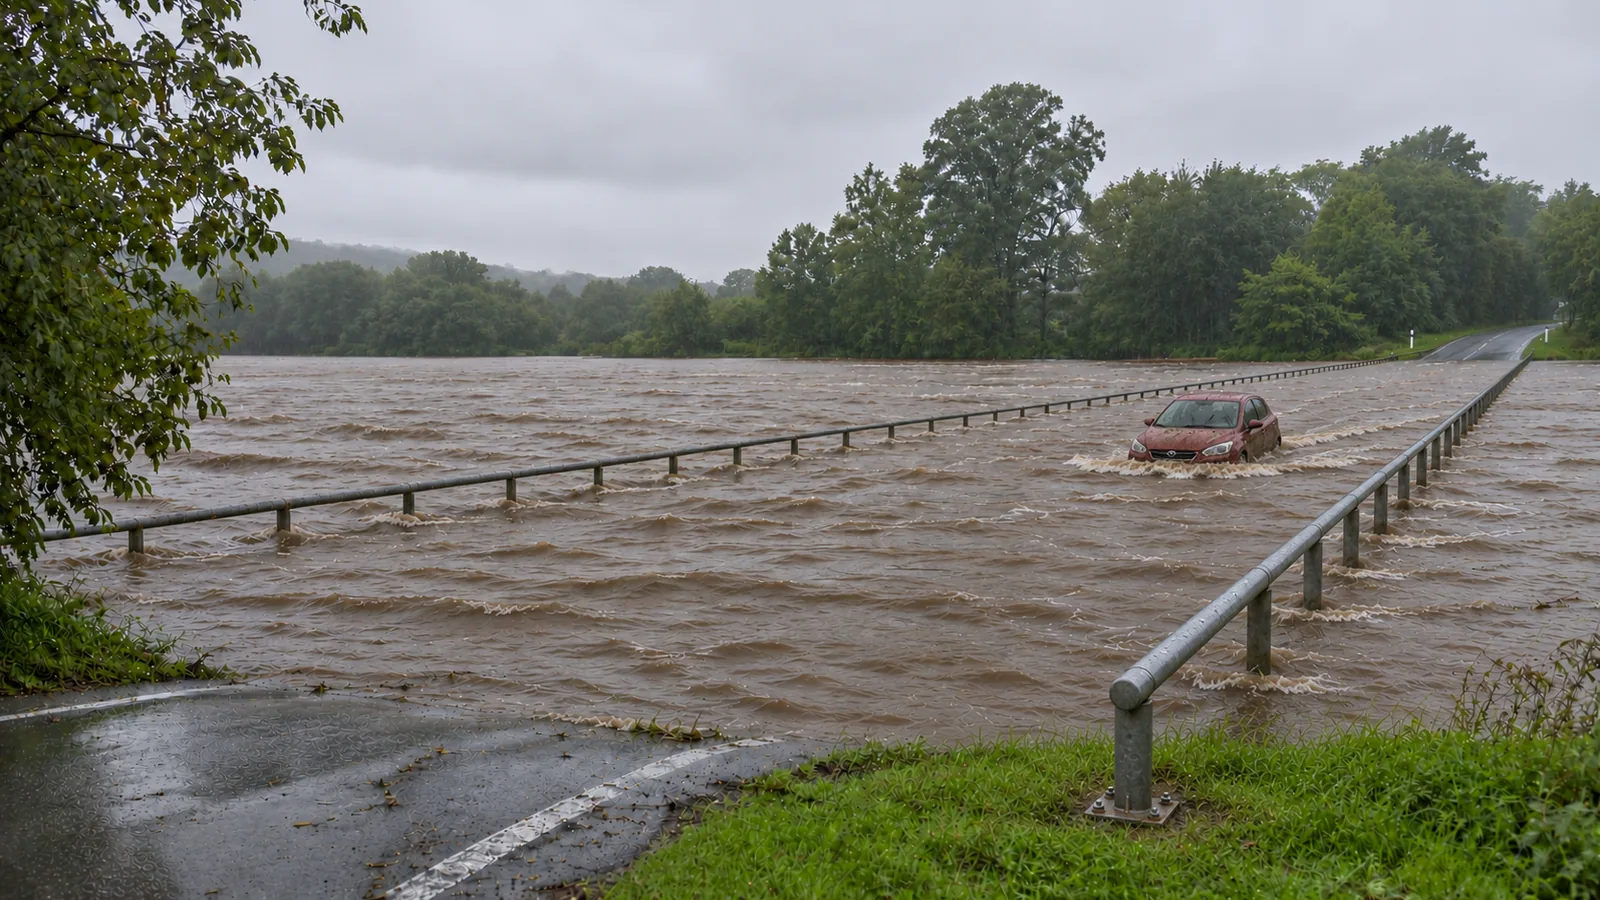
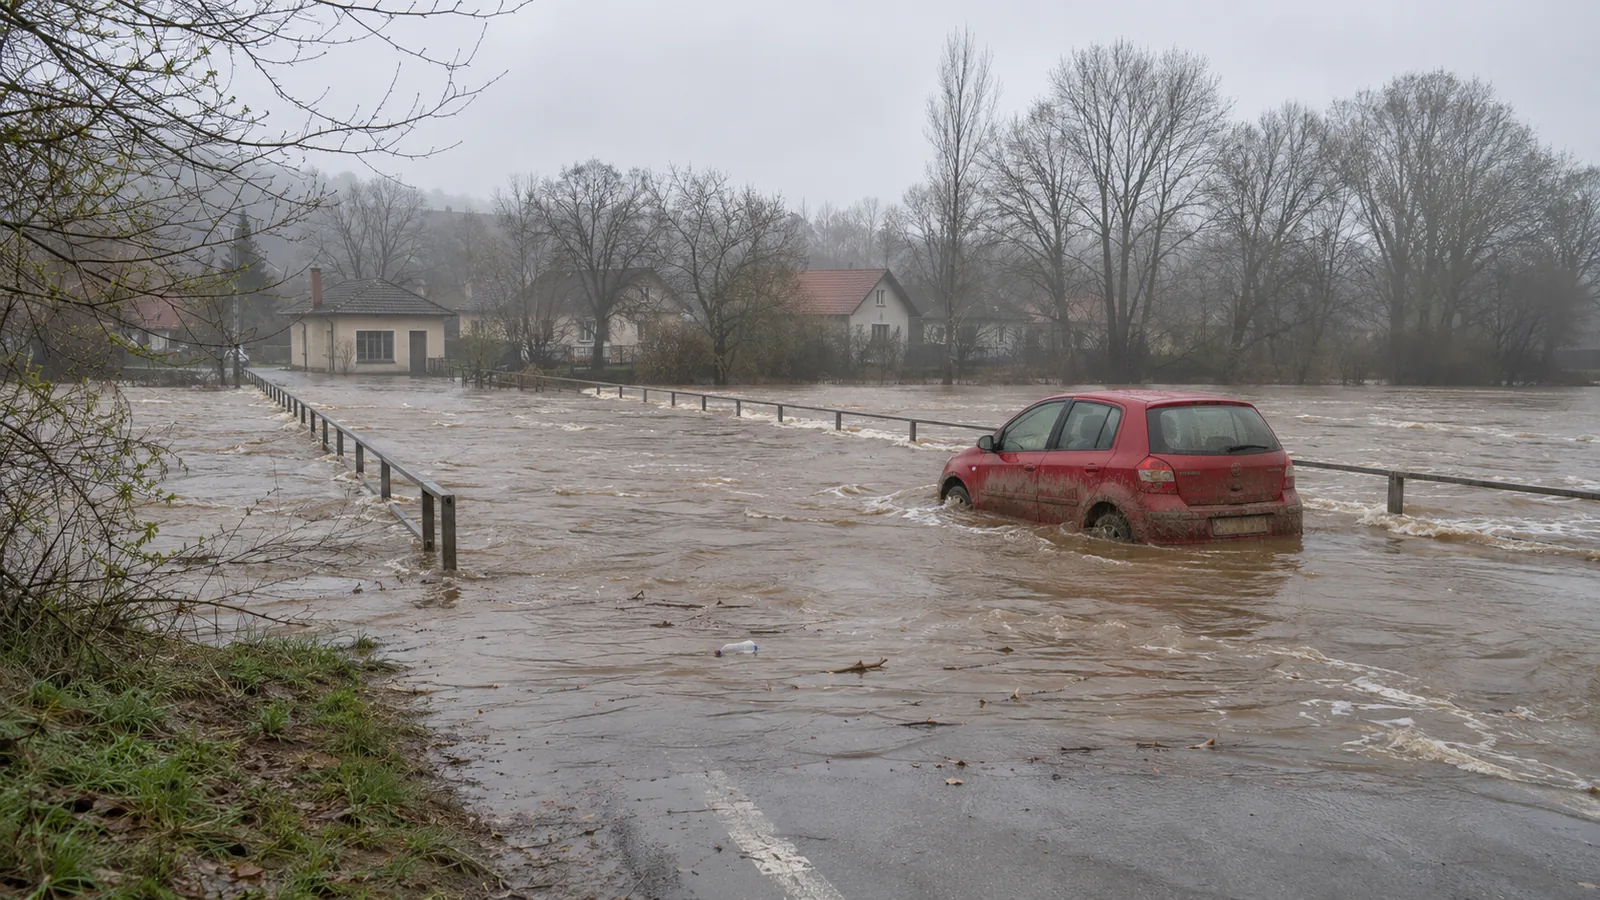
added more pictures

diff --git a/apps/artisan/components/artefacts/scenes.tsx b/apps/artisan/components/artefacts/scenes.tsx
@@ -1,113 +1,36 @@
-import type { ReactNode } from "react";
 import Image, { type StaticImageData } from "next/image";
 import type { SceneId } from "@/content/types";
+import childrenReadingMeadow from "@/assets/scenes/children-reading-meadow-ai-illustration.webp";
+import commonsReadingParty from "@/assets/scenes/commons-summer-reading-party.webp";
 import crowdedLibrary from "@/assets/scenes/crowded-library-stock-photo.webp";
 import handDrawnHeart from "@/assets/scenes/hand-drawn-heart-ai-illustration.webp";
+import historicLibrary from "@/assets/scenes/historic-library-reading-room.webp";
 import riversideBridgeFlood from "@/assets/scenes/riverside-bridge-flood.webp";
 import thankYouCard from "@/assets/scenes/thank-you-card-stock-photo.webp";
 import volunteersParty from "@/assets/scenes/volunteers-thank-you-party.webp";
 
 /*
- * The photos and images in a case. Some are stand-in images made with AI for the course; the rest are drawings
- * that keep their own fixed "print" palette in both themes, because a photo looks the same whatever the page
- * around it does. Neither is ever presented as a real photo: each is labelled as a drawing or as a stand-in made
- * with AI wherever it appears (PRD §4, simplifications visible). What an image is in the story (a stock photo,
- * an AI illustration) is said by its caption or option label, not by this label.
+ * The photos and images in a case: stand-in images made with AI for the course. None is ever presented as a
+ * real photo: each is labelled as a stand-in made with AI wherever it appears (PRD §4, simplifications
+ * visible). What an image is in the story (a stock photo, an AI illustration) is said by its caption or option
+ * label, not by that label. Static imports give the size, a blur placeholder and hashed, cacheable URLs.
  */
-
-/** Scenes shown as an image made with AI. Static imports give the size, a blur placeholder and hashed URLs. */
-const IMAGES = {
+const IMAGES: Record<SceneId, StaticImageData> = {
   flood: riversideBridgeFlood,
   library: crowdedLibrary,
+  readingParty: commonsReadingParty,
+  meadow: childrenReadingMeadow,
+  famousLibrary: historicLibrary,
   groupParty: volunteersParty,
   heart: handDrawnHeart,
   thankYou: thankYouCard,
-} satisfies Partial<Record<SceneId, StaticImageData>>;
-type ImageScene = keyof typeof IMAGES;
-
-/** Whether a scene is an image made with AI rather than a drawing, so its label can say so. */
-export function isGeneratedImage(id: SceneId): id is ImageScene {
-  return id in IMAGES;
-}
-
-const INK = "#1f2d28";
-const PAPER = "#eef1ec";
-
-/** Figures from the chest up: a head on rounded shoulders. */
-const people = (xs: number[], y: number, colours: string[]) =>
-  xs.map((x, i) => (
-    <g key={x}>
-      <path d={`M${x - 12} ${y + 34} q12 -52 24 0 z`} fill={colours[i % colours.length]} stroke={INK} strokeWidth="1.5" />
-      <circle cx={x} cy={y} r="7.5" fill="#e8c9a8" stroke={INK} strokeWidth="1.5" />
-    </g>
-  ));
-
-/** Every scene without an image has a drawing, and none has both. */
-const SCENES: Record<Exclude<SceneId, ImageScene>, ReactNode> = {
-  // Last year's reading party at the Commons: bunting, people with open books.
-  readingParty: (
-    <>
-      <rect width="320" height="180" fill={PAPER} />
-      <path d="M0 14 q160 30 320 0" fill="none" stroke={INK} strokeWidth="1.5" />
-      {Array.from({ length: 12 }, (_, i) => {
-        const x = 10 + i * 26;
-        const y = 16 + Math.sin((i / 11) * Math.PI) * 13;
-        return <path key={i} d={`M${x} ${y} l12 0 l-6 14 z`} fill={["#b8402f", "#d9b44a", "#3f5f87", "#5b7f6e"][i % 4]} />;
-      })}
-      {people([50, 110, 170, 230, 290], 104, ["#5b7f6e", "#d9b44a", "#3f5f87", "#b8402f"])}
-      {[50, 110, 170, 230, 290].map((x) => (
-        <path key={x} d={`M${x - 13} 126 l13 -4 l13 4 v12 l-13 -4 l-13 4 z`} fill="#ffffff" stroke={INK} strokeWidth="1.5" />
-      ))}
-      <rect x="0" y="160" width="320" height="20" fill="#c9bfa8" />
-    </>
-  ),
-  // An AI-generated illustration of children reading in a meadow: glossy, too perfect.
-  meadow: (
-    <>
-      <rect width="320" height="180" fill="#bfe0f2" />
-      <circle cx="262" cy="40" r="24" fill="#ffd95a" />
-      <path d="M0 120 q80 -40 160 -10 t160 -20 v90 H0z" fill="#7cc46b" />
-      <path d="M0 150 q90 -30 200 -6 t120 -4 v40 H0z" fill="#5fae55" />
-      <rect x="92" y="62" width="10" height="60" fill="#7a5a3a" />
-      <circle cx="97" cy="52" r="34" fill="#4f9e4a" />
-      {people([130, 162], 112, ["#ff7aa8", "#7a8cff"])}
-      {[[40, 150], [210, 160], [250, 146], [290, 158], [176, 166]].map(([x, y]) => (
-        <g key={x}>
-          <circle cx={x} cy={y} r="6" fill="#ffffff" />
-          <circle cx={x} cy={y} r="2.5" fill="#ffd95a" />
-        </g>
-      ))}
-    </>
-  ),
-  // A famous library's grand reading room, as in a photo found on a website.
-  famousLibrary: (
-    <>
-      <rect width="320" height="180" fill="#e4dccb" />
-      <path d="M40 90 a120 80 0 0 1 240 0 z" fill="#d1c4a5" stroke={INK} strokeWidth="2" />
-      {[60, 100, 140, 180, 220, 260].map((x) => (
-        <line key={x} x1="160" y1="20" x2={x} y2="90" stroke={INK} strokeWidth="1" />
-      ))}
-      {[48, 96, 144, 176, 224, 272].map((x) => (
-        <rect key={x} x={x - 5} y="90" width="10" height="70" fill="#f2ecdf" stroke={INK} strokeWidth="1.5" />
-      ))}
-      <rect x="0" y="160" width="320" height="20" fill="#7a5a3a" />
-      <ellipse cx="160" cy="150" rx="60" ry="8" fill="#7a5a3a" />
-    </>
-  ),
 };
 
 /**
- * The image or drawing for a scene, with its description as the accessible name. Images load lazily with a
- * blurred preview; `sizes` is the widest they are shown (a sheet is at most 44rem, a poster or card 24rem), so
- * phones and narrow frames download a smaller file.
+ * The image for a scene, with its description as the accessible name. Images load lazily with a blurred
+ * preview; `sizes` is the widest they are shown (a sheet is at most 44rem, a poster or card 24rem), so phones
+ * and narrow frames download a smaller file.
  */
 export function Scene({ id, alt, sizes = "(max-width: 44rem) 100vw, 44rem" }: { id: SceneId; alt: string; sizes?: string }) {
-  if (isGeneratedImage(id)) {
-    return <Image src={IMAGES[id]} alt={alt} placeholder="blur" sizes={sizes} className="scene block h-auto w-full" />;
-  }
-  return (
-    <svg viewBox="0 0 320 180" role="img" aria-label={alt} className="scene block h-auto w-full" focusable="false">
-      {SCENES[id]}
-    </svg>
-  );
+  return <Image src={IMAGES[id]} alt={alt} placeholder="blur" sizes={sizes} className="scene block h-auto w-full" />;
 }

diff --git a/apps/artisan/components/artefacts/frames.tsx b/apps/artisan/components/artefacts/frames.tsx
@@ -3,7 +3,7 @@ import type { Artefact, ComposeFrame, ComposeSpec, MarkFrame } from "@/content/t
 import { partOf, sceneOf, type Choices } from "@/lib/compose";
 import { t } from "@/lib/i18n/en";
 import { CastBadge } from "./cast-badge";
-import { Scene, isGeneratedImage } from "./scenes";
+import { Scene } from "./scenes";
 
 /*
  * Case artefacts shown as the things they are, lying on the cutting mat: a chat, an email, a post, a slide.
@@ -67,11 +67,12 @@ export function MarkShell({ frame, children }: { frame?: MarkFrame; children: Re
 
 const paragraphs = (body: string[]) => body.map((p, i) => <p key={i} className="mt-2 first:mt-0">{p}</p>);
 
-function Drawing({ scene, alt, sizes }: { scene: NonNullable<Extract<Artefact, { kind: "photo" }>["scene"]>; alt: string; sizes?: string }) {
+/** A case's image, with the label that says it is a stand-in made with AI and what it shows. */
+function SceneImage({ scene, alt, sizes }: { scene: NonNullable<Extract<Artefact, { kind: "photo" }>["scene"]>; alt: string; sizes?: string }) {
   return (
-    <div className="drawing">
+    <div className="scene-figure">
       <Scene id={scene} alt={alt} sizes={sizes} />
-      <p className="drawing-note">{isGeneratedImage(scene) ? t.artefact.generatedImage : t.artefact.drawing}: {alt}</p>
+      <p className="scene-note">{t.artefact.standIn}: {alt}</p>
     </div>
   );
 }
@@ -119,7 +120,7 @@ export function ArtefactFrame({ artefact, className }: { artefact: Artefact; cla
               </div>
             </div>
             <p className="mt-3 text-lg">{artefact.text}</p>
-            {artefact.scene && <div className="mt-3"><Drawing scene={artefact.scene} alt={artefact.alt ?? ""} /></div>}
+            {artefact.scene && <div className="mt-3"><SceneImage scene={artefact.scene} alt={artefact.alt ?? ""} /></div>}
             {artefact.reach && <p className="mt-2 text-sm text-muted">{artefact.reach}</p>}
           </article>
         </Specimen>
@@ -131,7 +132,7 @@ export function ArtefactFrame({ artefact, className }: { artefact: Artefact; cla
             <p className="article-outlet">{artefact.outlet}</p>
             <p className="text-sm text-muted">{artefact.date}</p>
             <p className="article-headline">{artefact.headline}</p>
-            {artefact.scene && <div className="mt-3"><Drawing scene={artefact.scene} alt={artefact.alt ?? ""} /></div>}
+            {artefact.scene && <div className="mt-3"><SceneImage scene={artefact.scene} alt={artefact.alt ?? ""} /></div>}
             {artefact.caption && <p className="mt-2 text-sm italic">{artefact.caption}</p>}
           </article>
         </Specimen>
@@ -176,9 +177,9 @@ export function ArtefactFrame({ artefact, className }: { artefact: Artefact; cla
       );
     case "photo":
       return (
-        <Specimen tag={isGeneratedImage(artefact.scene) ? t.artefact.tag.generatedPhoto : t.artefact.tag.photo} className={className}>
+        <Specimen tag={t.artefact.tag.photo} className={className}>
           <div className="sheet p-2">
-            <Drawing scene={artefact.scene} alt={artefact.alt} />
+            <SceneImage scene={artefact.scene} alt={artefact.alt} />
             <p className="mt-2 px-1 text-sm">{artefact.caption}</p>
           </div>
         </Specimen>
@@ -247,7 +248,7 @@ export function ComposeOutput({
   const imageLabel = imagePart && (imagePart.alt ?? imagePart.label.replace(/\s*\([^)]*\)$/, ""));
   const footer = frame.footer ? partOf(spec, choices, frame.footer)?.output.trim() : undefined;
   const headline = frame.kind === "poster" ? partOf(spec, choices, frame.headline)?.output.trim() : undefined;
-  // An image without a drawing stays in the text, so nothing the learner chose goes missing.
+  // An image option without a picture stays in the text, so nothing the learner chose goes missing.
   const placed = new Set([frame.kind === "poster" ? frame.headline : "", image ? frame.image! : "", frame.footer ?? ""]);
   const body = (spec.outputOrder ?? spec.elements.map((e) => e.id))
     .filter((id) => !placed.has(id))
@@ -259,7 +260,7 @@ export function ComposeOutput({
       <div className={`sheet ${frame.kind === "poster" ? "poster" : "card"}`}>
         {headline && <p className="poster-headline">{headline}</p>}
         {frame.kind === "card" && body.map((p, i) => <p key={i} className="card-message">{p}</p>)}
-        {image && imageLabel && <div className="mt-3"><Drawing scene={image} alt={imageLabel} sizes="(max-width: 24rem) 100vw, 24rem" /></div>}
+        {image && imageLabel && <div className="mt-3"><SceneImage scene={image} alt={imageLabel} sizes="(max-width: 24rem) 100vw, 24rem" /></div>}
         {frame.kind === "poster" && body.map((p, i) => <p key={i} className="mt-3">{p}</p>)}
         {footer && <p className="poster-footer">{footer}</p>}
       </div>

diff --git a/apps/artisan/content/en/missions/m11.ts b/apps/artisan/content/en/missions/m11.ts
@@ -71,9 +71,9 @@ export const m11: Mission = {
             label: "Image",
             help: "Check the policy on photos and images.",
             options: [
-              { id: "ai-meadow", label: "AI-generated illustration of children reading in a meadow", output: "\n[Image: an AI-generated illustration of children reading in a meadow]", by: "ai", scene: "meadow", alt: "AI-generated illustration of children reading in a sunny meadow under a large tree" },
-              { id: "party", label: "Photo of last year's reading party (every person in it signed a consent form)", output: "\n[Image: last year's reading party at the Commons]", by: "supplied", scene: "readingParty", alt: "Children and adults holding open books under paper bunting at last summer's reading party at the Commons" },
-              { id: "web", label: "Photo of a famous library, found on a website", output: "\n[Image: a famous library, from a website]", by: "supplied", scene: "famousLibrary", alt: "A grand historic library reading room with galleries, tall wooden shelves and a vaulted ceiling" },
+              { id: "ai-meadow", label: "AI-generated illustration of children reading in a meadow", output: "\n[Image: an AI-generated illustration of children reading in a meadow]", by: "ai", scene: "meadow", alt: "AI-generated illustration of three smiling children reading picture books in a flowering meadow under a large tree, the sun setting behind hills" },
+              { id: "party", label: "Photo of last year's reading party (every person in it signed a consent form)", output: "\n[Image: last year's reading party at the Commons]", by: "supplied", scene: "readingParty", alt: "Children and adults laughing over open books under colourful paper bunting at last summer's reading party at the Commons" },
+              { id: "web", label: "Photo of a famous library, found on a website", output: "\n[Image: a famous library, from a website]", by: "supplied", scene: "famousLibrary", alt: "A grand historic library reading room with two levels of wooden galleries, rolling ladders and a painted vaulted ceiling" },
             ],
           },
           {

diff --git a/apps/artisan/content/types.ts b/apps/artisan/content/types.ts
@@ -1,6 +1,6 @@
 export type MissionId = string;
 
-/** Photos and images in a case: drawings, or AI-generated images. Each is labelled as what it is wherever it appears. */
+/** Photos and images in a case, all stand-ins made with AI. Each is labelled as such wherever it appears. */
 export type SceneId = "flood" | "library" | "readingParty" | "meadow" | "famousLibrary" | "groupParty" | "heart" | "thankYou";
 
 /**
@@ -10,7 +10,7 @@ export type SceneId = "flood" | "library" | "readingParty" | "meadow" | "famousL
 export type Artefact =
   | { kind: "chat"; messages: { from: string; text: string; /** A message the AI tool wrote, quoted in the chat. */ ai?: boolean }[] }
   | { kind: "email"; from: string; to: string; subject: string; body: string[] }
-  | { kind: "post"; account: string; posted: string; text: string; scene?: SceneId; /** What the drawing shows. */ alt?: string; reach?: string }
+  | { kind: "post"; account: string; posted: string; text: string; scene?: SceneId; /** What the image shows. */ alt?: string; reach?: string }
   | { kind: "article"; outlet: string; date: string; headline: string; scene?: SceneId; alt?: string; caption?: string }
   | { kind: "slide"; title: string; body: string[]; number?: number }
   | { kind: "worksheet"; title: string; owner: string; lines: { question: string; answer: string; mark?: "right" | "wrong"; note?: string }[]; teacherNote?: string }
@@ -293,9 +293,9 @@ export interface ComposeOption {
   /** The part of the authored output this option produces. Empty adds nothing. */
   output: string;
   by?: Contributor;
-  /** A drawing or image shown for this option in a framed output, such as an image on a poster. */
+  /** An image shown for this option in a framed output, such as the picture on a poster. */
   scene?: SceneId;
-  /** What that drawing or image shows. Defaults to the label without its bracketed note. */
+  /** What that image shows. Defaults to the label without its bracketed note. */
   alt?: string;
 }
 

diff --git a/apps/artisan/content/missions.test.ts b/apps/artisan/content/missions.test.ts
@@ -255,7 +255,7 @@ describe.each(missions)("mission $id", (mission) => {
     }
   });
 
-  it("artefacts describe every drawing, and framed outputs place parts that exist", () => {
+  it("artefacts describe every image, and framed outputs place parts that exist", () => {
     const artefacts: Artefact[] = [];
     for (const s of mission.steps) {
       if ("artefact" in s && s.artefact) artefacts.push(s.artefact);
@@ -275,7 +275,7 @@ describe.each(missions)("mission $id", (mission) => {
       }
     }
     for (const a of artefacts) {
-      if ((a.kind === "post" || a.kind === "article") && a.scene) expect(a.alt?.trim(), `${a.kind} drawing`).toBeTruthy();
+      if ((a.kind === "post" || a.kind === "article") && a.scene) expect(a.alt?.trim(), `${a.kind} image`).toBeTruthy();
       if (a.kind === "photo") expect(a.alt.trim()).toBeTruthy();
       if (a.kind === "chat") expect(a.messages.length).toBeGreaterThan(0);
     }

diff --git a/apps/artisan/content/en/missions/m08.ts b/apps/artisan/content/en/missions/m08.ts
@@ -5,7 +5,7 @@ import type { Choice, Mission } from "../../types";
  * All people, accounts, outlets and records are fictional. Media are described in text (PRD M08: start with text and still images).
  */
 
-const FLOOD = "Brown floodwater pouring over the road at Riverside Bridge on a grey, rainy day, a red car stranded halfway across, the railings on both sides just visible above the water.";
+const FLOOD = "Brown floodwater pouring over the road at Riverside Bridge on a grey, misty day, a mud-splashed red car stranded halfway across, the railings just visible above the water, bare trees and houses behind.";
 
 const firstMove = "Rosa drops this on your desk: “Looks real to me. Can we run it?” You have a few minutes before you start checking. What is your first move?";
 const firstChoices: Choice[] = [

diff --git a/apps/artisan/lib/i18n/en.ts b/apps/artisan/lib/i18n/en.ts
@@ -830,16 +830,14 @@ export const en = {
       slide: "Fictional slide, made with an AI tool",
       worksheet: "Fictional homework sheet",
       document: "Fictional document",
-      photo: "Drawing of a fictional photo",
-      generatedPhoto: "Fictional photo, a stand-in made with AI",
+      photo: "Fictional photo, a stand-in made with AI",
       draft: "Written in advance for the options you chose",
     },
     from: "From",
     to: "To",
     subject: "Subject",
     noSubject: "(no subject)",
-    drawing: "Drawing",
-    generatedImage: "Stand-in image, made with AI for this course",
+    standIn: "Stand-in image, made with AI for this course",
     name: "Name",
     teacher: "Teacher's note",
     marked: { right: "marked right", wrong: "marked wrong" },

diff --git a/apps/artisan/lib/compose.ts b/apps/artisan/lib/compose.ts
@@ -31,7 +31,7 @@ const holds = (set: Record<string, string[]>, choices: Choices) =>
 /** The option chosen for one element, for frames that place parts by element (a poster's headline, its image). */
 export const partOf = (spec: ComposeSpec, choices: Choices, elementId: string) => optionOf(spec, elementId, choices[elementId]);
 
-/** The drawing for the option chosen in an element, if it has one. */
+/** The image for the option chosen in an element, if it has one. */
 export const sceneOf = (spec: ComposeSpec, choices: Choices, elementId: string) => partOf(spec, choices, elementId)?.scene;
 
 export const criterionMet = (c: ComposeCriterion, choices: Choices) =>

diff --git a/apps/artisan/app/globals.css b/apps/artisan/app/globals.css
@@ -371,10 +371,10 @@
     line-height: 1.15;
   }
 
-  .drawing {
+  .scene-figure {
     border: 1px solid var(--border);
   }
-  .drawing-note {
+  .scene-note {
     padding: 0.3rem 0.5rem;
     font-size: 0.8125rem;
     color: var(--muted);
@@ -477,11 +477,11 @@
     padding-top: 0.4rem;
     font-size: 0.8125rem;
   }
-  .poster .drawing {
+  .poster .scene-figure {
     border-color: var(--highlighter-ink);
     background: #ffffff;
   }
-  .poster .drawing-note {
+  .poster .scene-note {
     color: #33443d;
   }
   .card {
